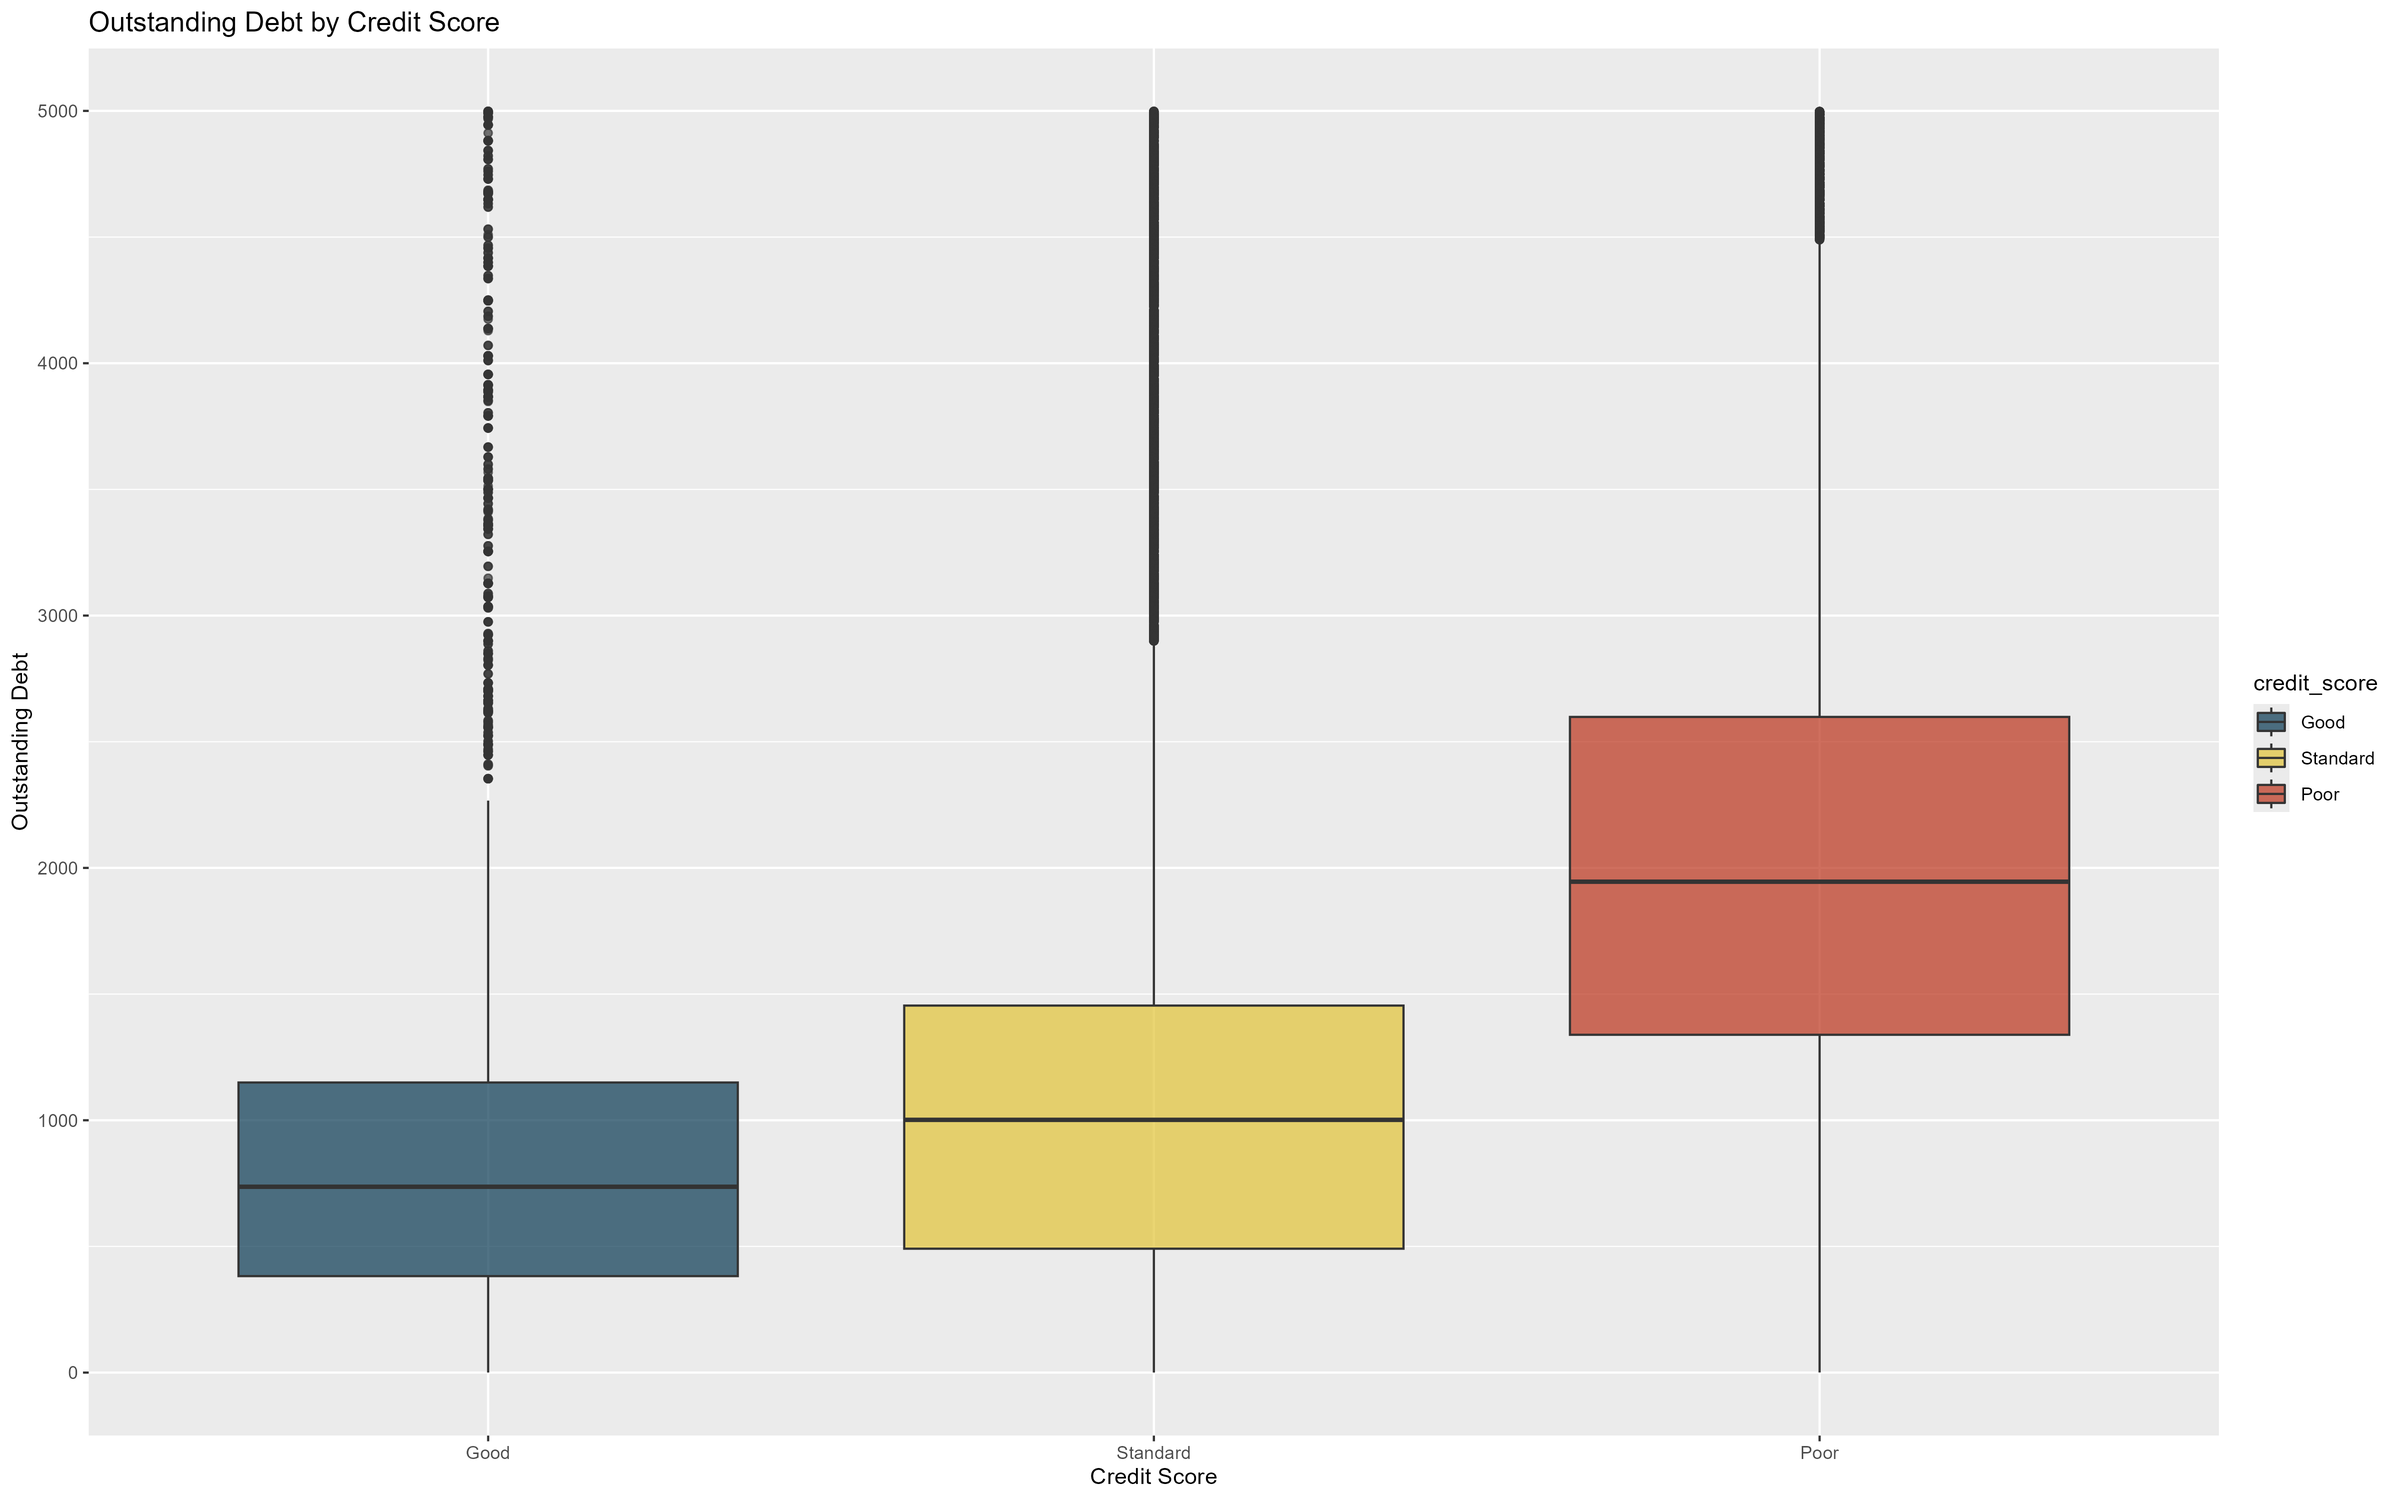
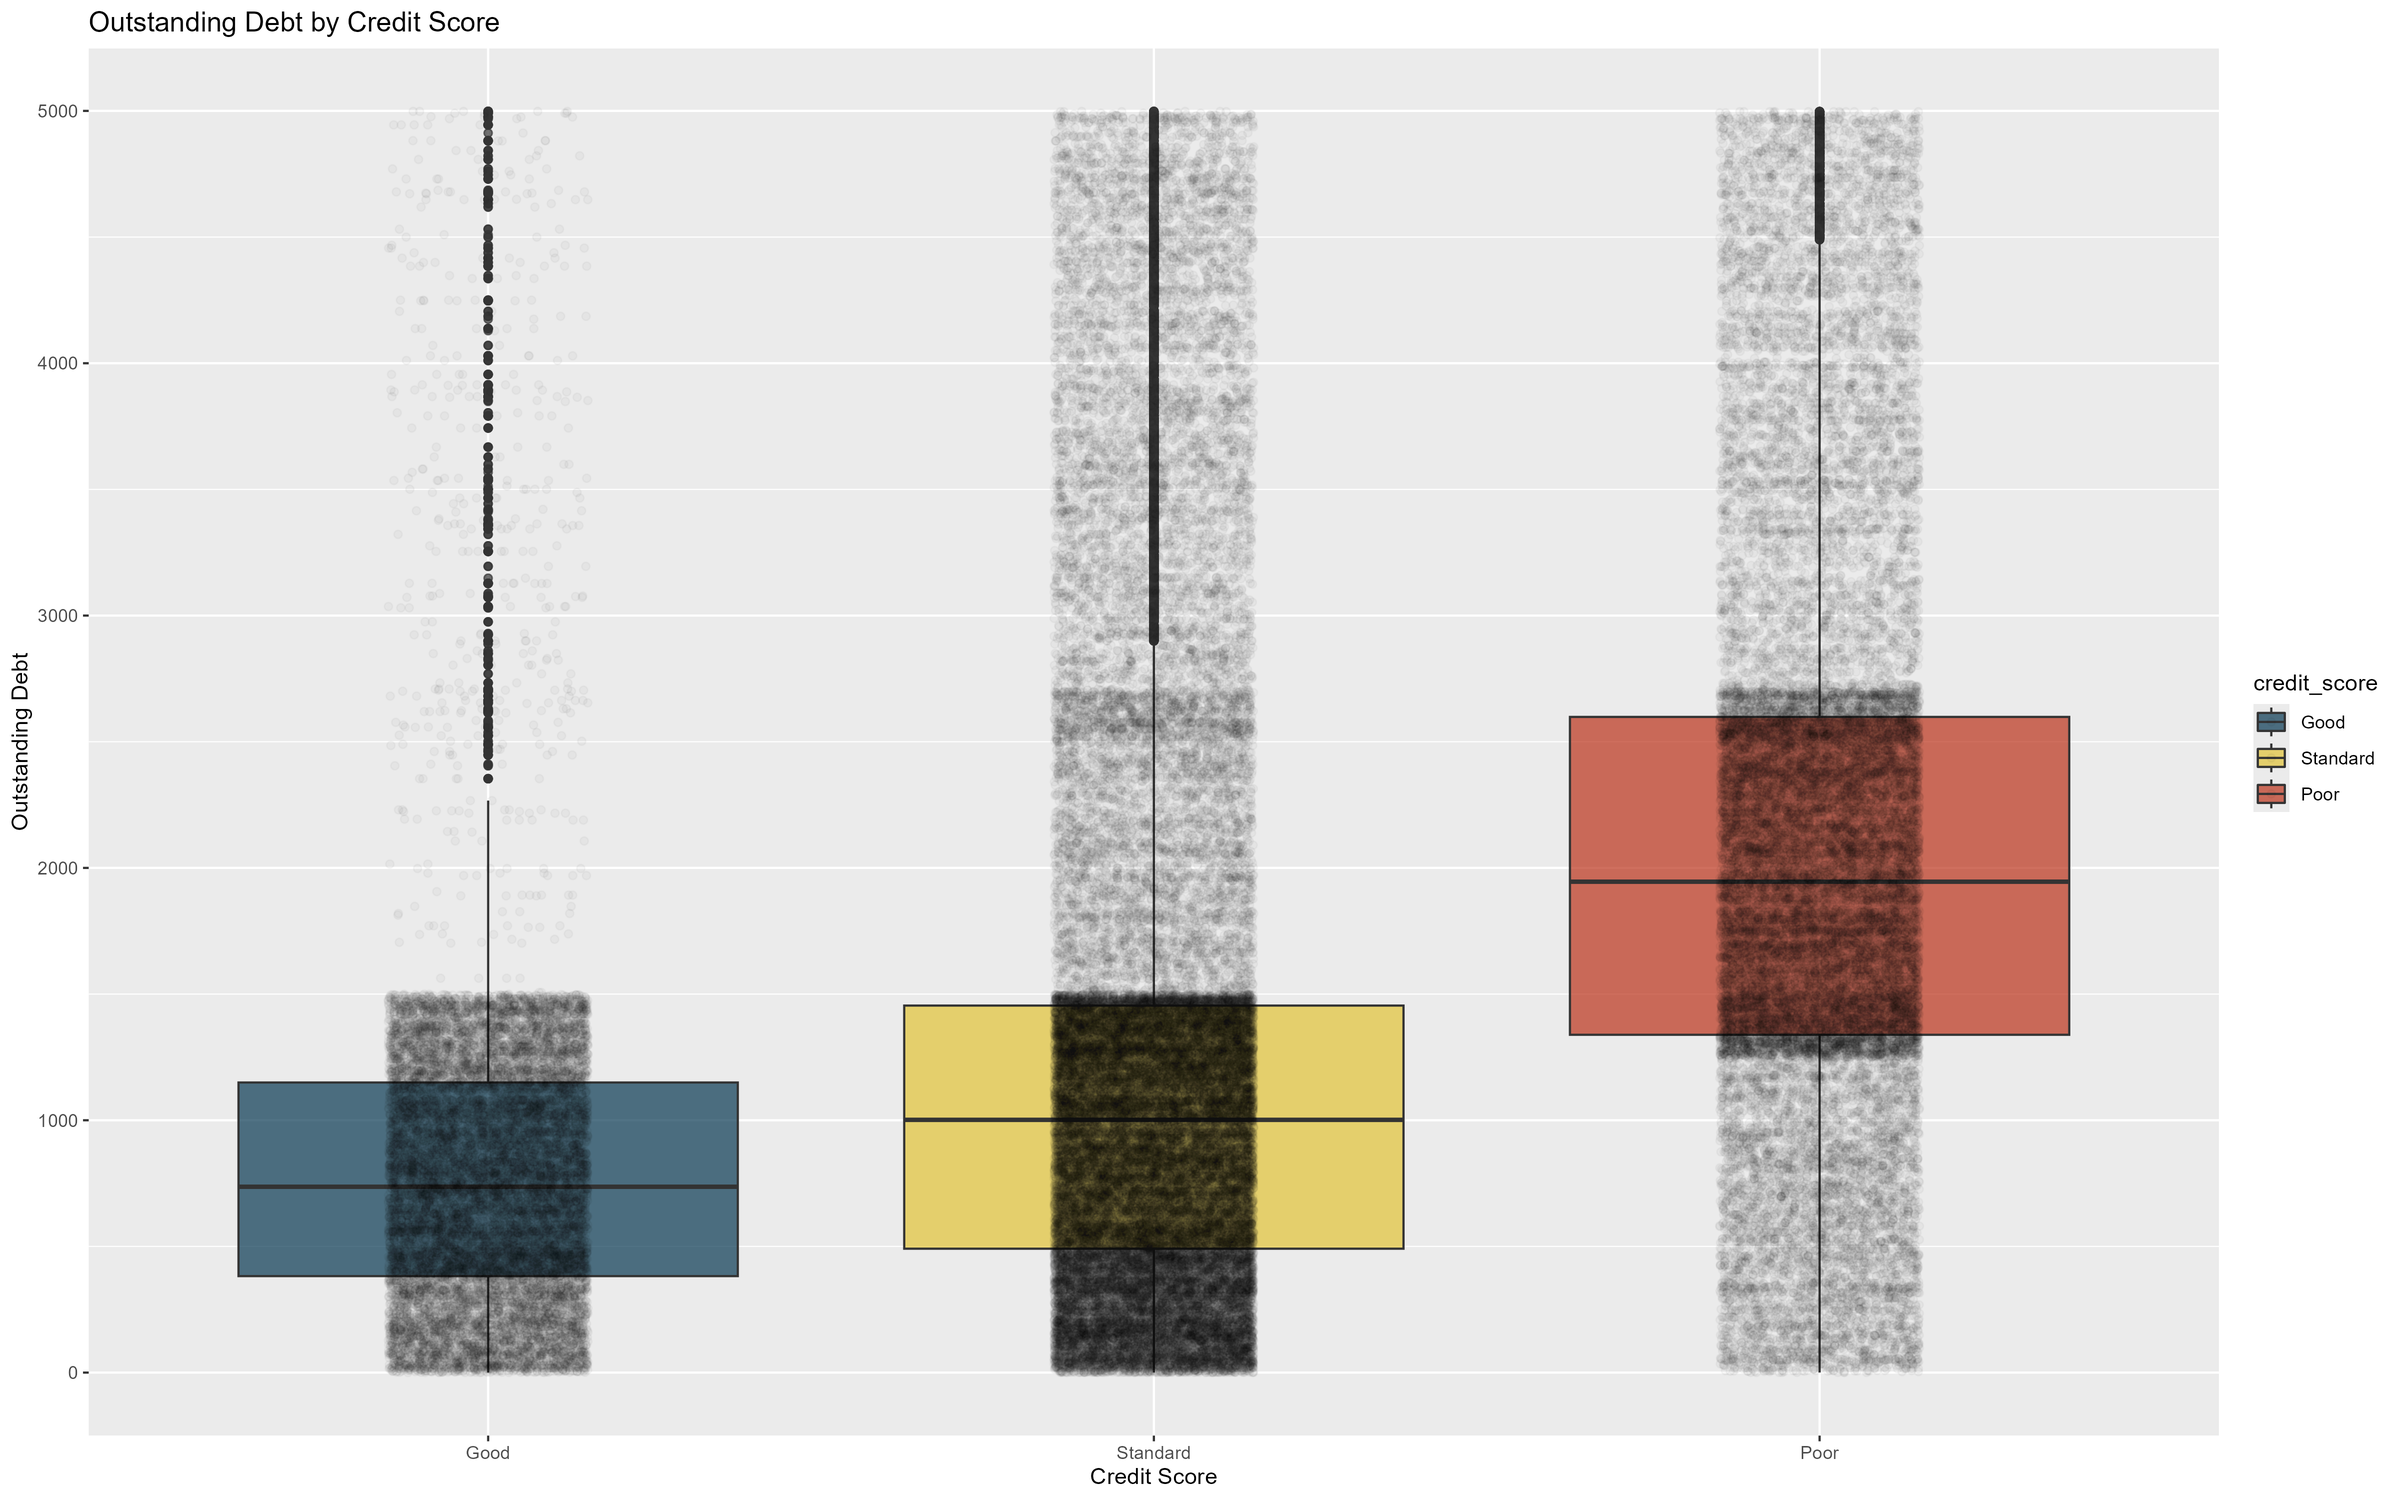
Rebase with remote origin/main

Changed region(s): [[0.6875, 0.062, 0.8125, 0.93], [0.4375, 0.062, 0.5312, 0.93], [0.1562, 0.651, 0.25, 0.93]]

diff --git a/analysis/guide.md b/analysis/guide.md
@@ -1,0 +1,56 @@
+To investigate the impact of outstanding debt on credit scores, you can use several visualization techniques to uncover patterns and insights. Here are some suggestions:
+1. Scatter Plots
+
+    - Basic Scatter Plot: Plot outstanding_debt on the x-axis and credit_score on the y-axis to see the overall relationship.
+    - Colored by Credit Score: Color the points by credit_score category to differentiate between poor, standard, and good scores.
+    - Faceted Scatter Plot: Use facet_wrap or facet_grid to create separate scatter plots for different ranges of another variable like interest_rate or num_of_loan.
+
+2. Box Plots
+
+    - Box Plot by Credit Score: Create box plots of outstanding_debt for each credit_score category. This shows the distribution and central tendency of debt for each score category.
+    - Box Plot Faceted by Another Variable: Facet the box plots by num_of_loan or interest_rate to compare distributions across different conditions.
+
+3. Density Plots
+
+    - Density Plot by Credit Score: Overlay density plots for outstanding_debt for each credit_score category. This helps in comparing the distribution shapes.
+    - Faceted Density Plot: Create faceted density plots for different ranges of another variable to see how the density of outstanding_debt varies with credit_score.
+
+4. Histograms
+
+    - Histogram by Credit Score: Create histograms of outstanding_debt for each credit_score category. This shows the frequency distribution of debt amounts.
+    - Stacked Histograms: Use stacked histograms to compare distributions within the same plot.
+
+5. Violin Plots
+
+    - Violin Plot by Credit Score: Violin plots combine box plots and density plots, showing both the distribution shape and summary statistics for outstanding_debt across different credit scores.
+
+6. Heatmaps
+
+    - Correlation Heatmap: Create a heatmap to visualize the correlation between outstanding_debt and other numerical variables, including credit_score.
+    - 2D Density Heatmap: Plot a 2D density heatmap of outstanding_debt vs. credit_score to see where the most common combinations occur.
+
+7. Line Charts
+
+    - Trend Lines: If you have a time series component (like Month), plot the trend of outstanding_debt over time, colored by credit_score.
+
+8. Bar Charts
+
+    - Grouped Bar Charts: Use grouped bar charts to show the average or median outstanding_debt for each credit_score category, possibly grouped by another variable like occupation or num_of_loan.
+
+9. Pair Plots
+
+    - Pair Plot: Create a pair plot to see scatter plots, histograms, and correlation values for outstanding_debt, credit_score, and other relevant variables in the dataset.
+
+10. Bubble Charts
+
+    - Bubble Chart: Use a bubble chart where the x-axis is outstanding_debt, the y-axis is credit_score, and the size of the bubbles represents another variable like num_of_loan or annual_income.
+
+11. Facet Grids
+
+    - Facet Grid by Two Variables: Create a facet grid to plot outstanding_debt against credit_score across combinations of two other categorical variables, such as occupation and num_of_loan.
+
+12. Crosstab Analysis
+
+    - Crosstab Heatmap: Create a heatmap of a crosstab showing the count or percentage of observations for combinations of credit_score and outstanding_debt ranges.
+
+By using these visualization techniques, you can explore different aspects of the relationship between outstanding debt and credit scores, identify trends, and gain insights into how outstanding debt impacts credit scores across various conditions and demographics.
